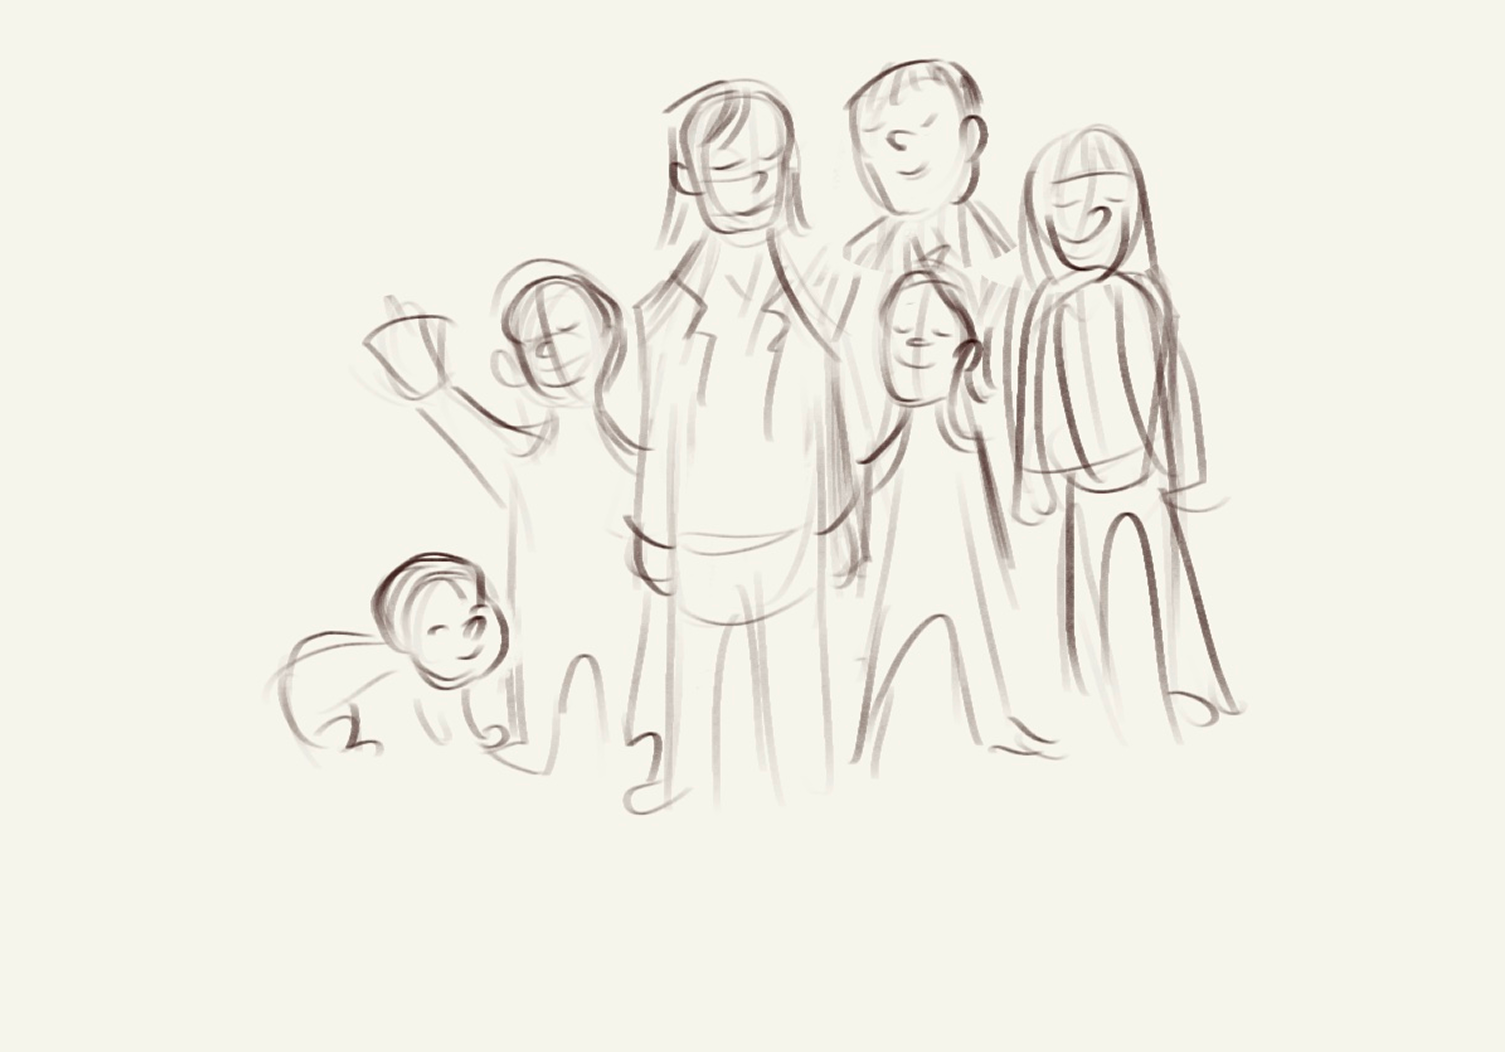
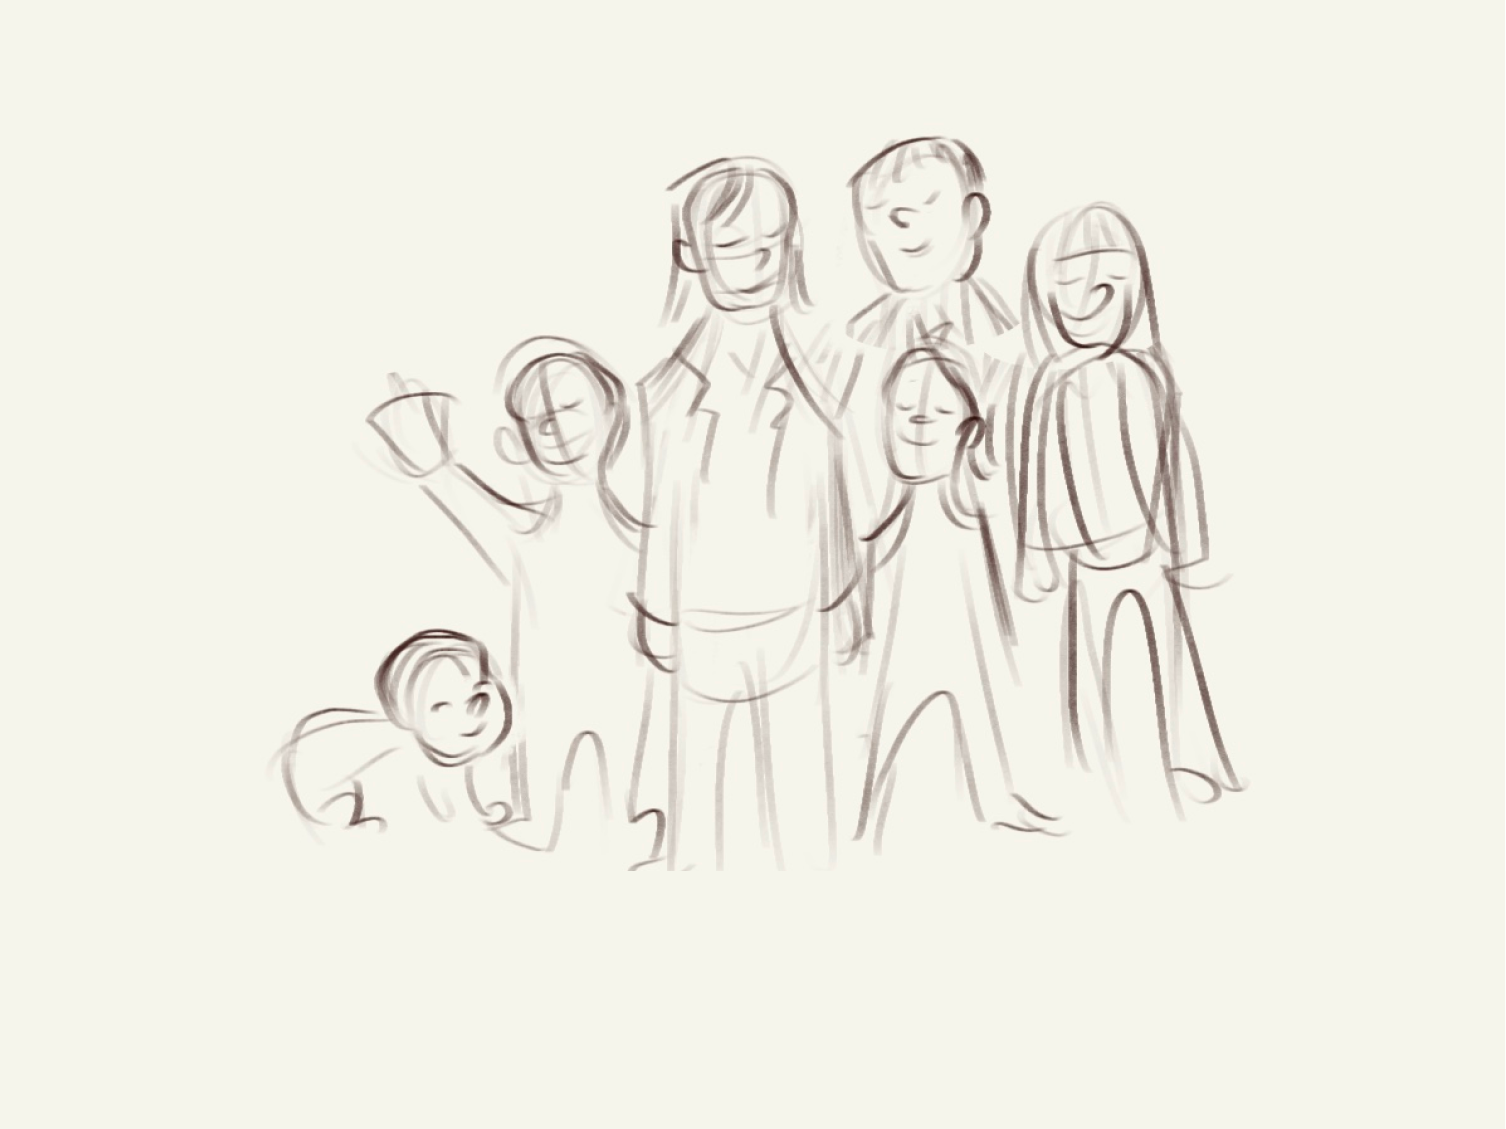
Add drafts in ch2

Changed region(s): [[0.1874, 0.0304, 0.8432, 0.7909]]

diff --git a/MRPCC/js/nonjourney/chapter2.js b/MRPCC/js/nonjourney/chapter2.js
@@ -35,7 +35,7 @@ const pages = [
         
     },
     {
-        img: "../img/images/Non journey/BG-wave.png",
+        img: "../img/images/Non journey/Ch 2 n.png",
         showButton: false,
         showTextBox: true,
         showProgressDots: true,
@@ -63,7 +63,7 @@ const pages = [
         text: "There are different types of craniosynostosis depending on what sutures have fused, click the poster to learn more"
     },
     {
-        img: "../img/images/Slide 16_9 - 1.png",
+        img: "../img/images/Non journey/Ch 2 o.png",
         showButton: false,
         showTextBox: true,
         showProgressDots: true,
